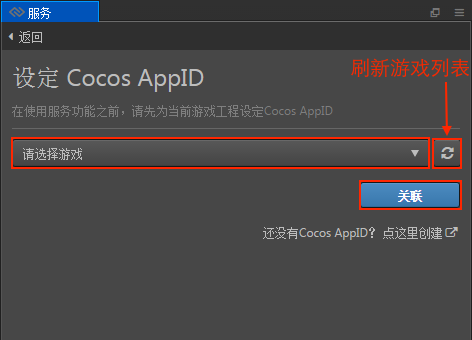
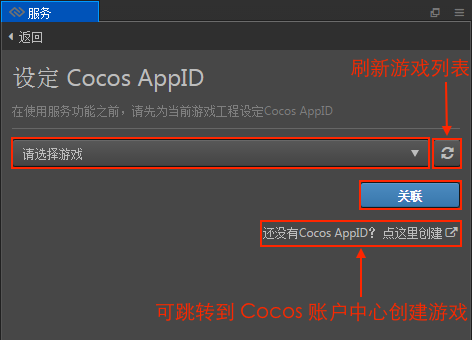
补充 cocos 账户中心入口

Changed region(s): [[0.3263, 0.8824, 1.0, 0.9412], [0.5339, 0.6471, 0.9788, 0.8529]]

diff --git a/zh/sdk/cocos-services.md b/zh/sdk/cocos-services.md
@@ -23,6 +23,8 @@ Cocos Creator 从 v2.0.7 开始在 **菜单栏 -> 面板** 中新增了 **服务
 
 ![](cocos-services/appid.png)
 
+可以通过点击 **还没有 Cocos AppID？点这里创建** 按钮跳转到 Cocos 账户中心创建游戏。
+
 3、AppID 设置完成之后会自动跳转到 **服务** 页面，可以看到页面左上方已经显示了游戏名称以及 AppID。
 
 ![](cocos-services/service.png)
